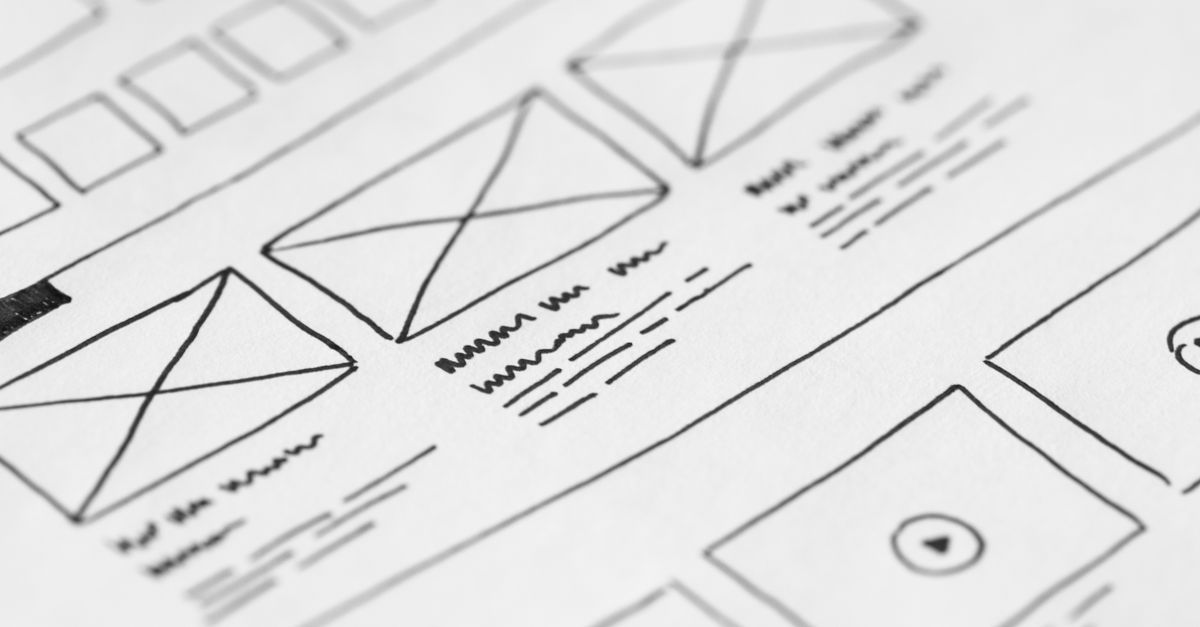
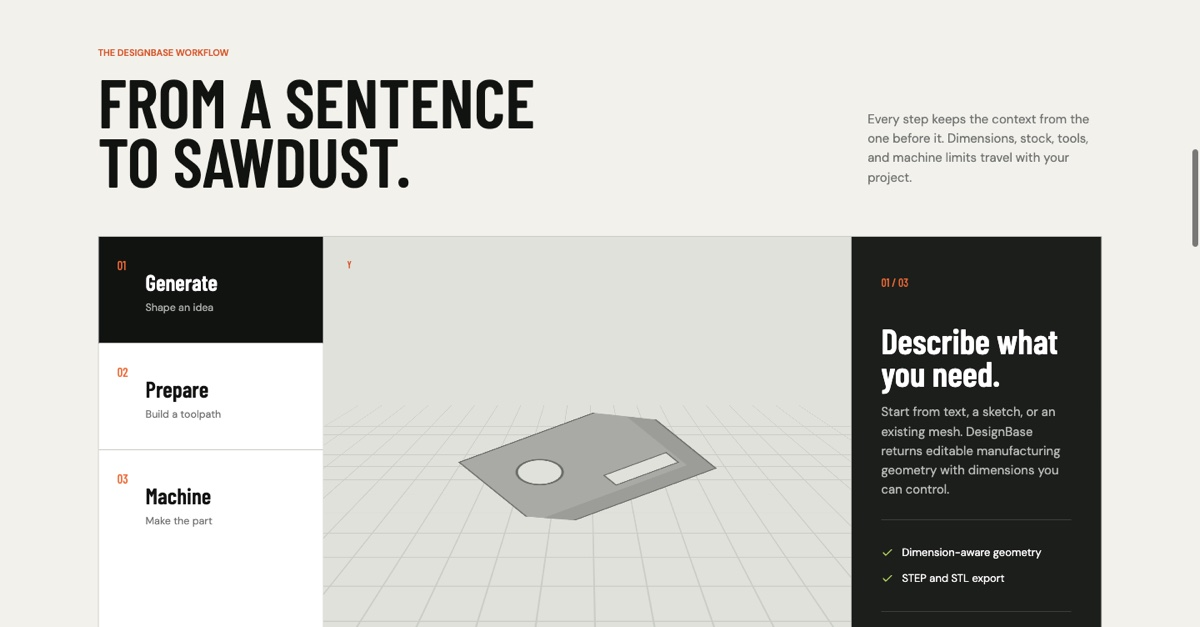
docs: replace stock images with product screenshots

diff --git a/README.md b/README.md
@@ -18,9 +18,7 @@
 </p>
 
 <p align="center">
-  <a href="https://www.pexels.com/photo/apple-monitors-326518/">
-    <img src="assets/design-workspace.jpg" alt="双屏网页设计工作台，展示真实的界面设计过程" width="100%" />
-  </a>
+  <img src="assets/design-workspace.jpg" alt="DesignBase 产品首屏：工坊背景与 MAKE IDEAS PHYSICAL 品牌主张" width="100%" />
 </p>
 
 ---
@@ -111,14 +109,10 @@ FOUNDATION → COMPOSE → VERIFY │
 ```
 
 <p align="center">
-  <a href="https://www.pexels.com/photo/white-printer-paper-196645/">
-    <img src="assets/wireframe-process.jpg" alt="纸面上的 UX 线框稿与界面结构推导" width="49%" />
-  </a>
-  <a href="https://www.pexels.com/photo/a-person-holding-black-smartphone-11780441/">
-    <img src="assets/mobile-validation.jpg" alt="在应用流程草图上验证移动端界面" width="49%" />
-  </a>
+  <img src="assets/wireframe-process.jpg" alt="DesignBase 从描述到制造路径的三阶段工作流" width="49%" />
+  <img src="assets/mobile-validation.jpg" alt="DesignBase 真实项目案例与可重复制造结果" width="49%" />
 </p>
-<p align="center"><sub>从设计推导、规则沉淀，到真实设备和关键状态验证。</sub></p>
+<p align="center"><sub>同一套设计基础设施，贯穿品牌表达、工作流与真实项目内容。</sub></p>
 
 代理只需注册 `SKILL.md`。Design Base 会根据任务范围调用对应模块，并在确有需要时读取设计推导、架构、规范、审查依据或项目模板。
 
@@ -211,8 +205,6 @@ design-system/
 ## Versioning
 
 项目遵循[语义化版本](https://semver.org/lang/zh-CN/)。当前版本记录在 [`VERSION`](VERSION)，完整变化见 [`CHANGELOG.md`](CHANGELOG.md)，Git 标签与 GitHub Release 使用 `v<版本号>` 格式。
-
-<sub>Images used under the [Pexels License](https://www.pexels.com/license/): [Tranmautritam](https://www.pexels.com/@tranmautritam/), [picjumbo.com](https://www.pexels.com/@picjumbo-com-55570/), and [Akshar Dave](https://www.pexels.com/@akshar-dave/).</sub>
 
 ---
 
